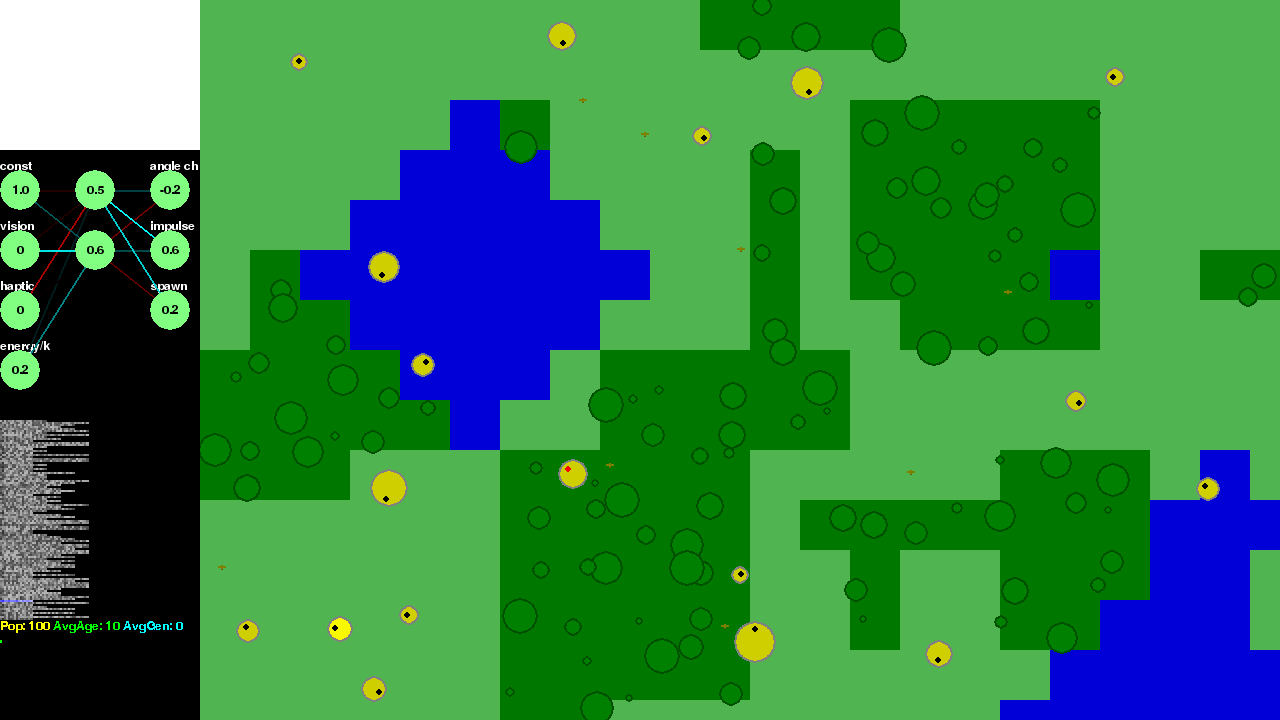
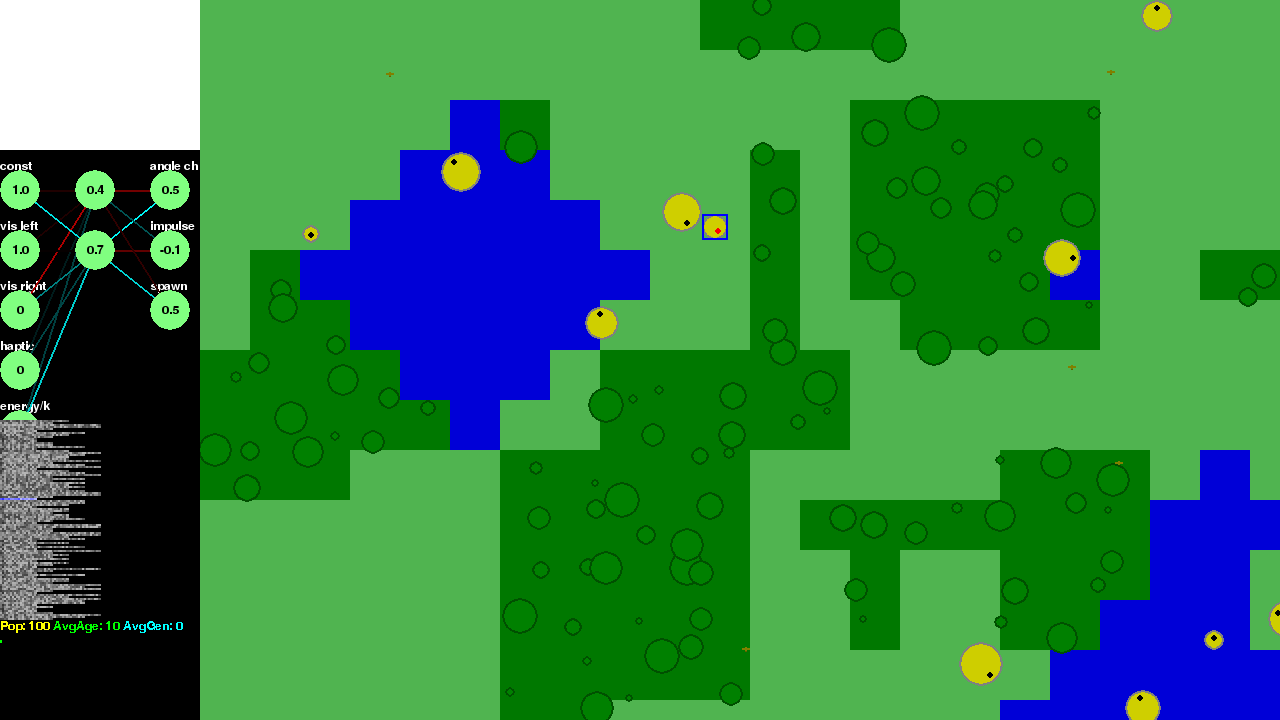
Convert Character to a cdef class, and add left/right vision.

diff --git a/novel-evolve/worldview.py b/novel-evolve/worldview.py
@@ -41,11 +41,15 @@ class WorldView(viewport.Viewport):
 
     def _create_character(self):
         character = characters.Character.from_random(self)
-        while character._x is None \
+        while character.x == -1 \
         or pygame.sprite.spritecollideany(character, self.allcharacters) \
         or pygame.sprite.spritecollideany(character, self.alltrees):
-            character.x = random.randint(0, self.canvas_w - character.r * 2)
-            character.y = random.randint(0, self.canvas_h - character.r * 2)
+            x = random.randint(0, self.canvas_w - character.r * 2)
+            y = random.randint(0, self.canvas_h - character.r * 2)
+            character.x = x
+            character.rect.x = x
+            character.y = y
+            character.rect.y = y
         self.allcharacters.add(character)
         # debugging:
         if self.active_item is None:

diff --git a/novel-evolve/genome.py b/novel-evolve/genome.py
@@ -10,7 +10,6 @@ class Genome(object):
 
         # These are not part of the genome but used to speed up calculations
         self._inputs = inputs
-        assert self._inputs == 4
         self._outputs = outputs
 
 
@@ -81,9 +80,9 @@ class Genome(object):
         if p1.hidden_neurons > p2.hidden_neurons:
             p1, p2 = p2, p1
 
-        assert p1._inputs == 4
-        assert p2._inputs == 4
-        assert new._inputs == 4
+        assert p1._inputs == 5
+        assert p2._inputs == 5
+        assert new._inputs == 5
         for i in range(new.hidden_neurons):
             offset = new._inputs * i
             for j in range(new._inputs):

diff --git a/novel-evolve/brainview.py b/novel-evolve/brainview.py
@@ -48,7 +48,7 @@ class BrainView(viewport.Viewport):
             self.image.blit(self.canvas, self.drag_offset)
             return
 
-        input_labels = ('const', 'vision', 'haptic', 'energy/k')
+        input_labels = ('const', 'vis left', 'vis right', 'haptic', 'energy/k')
         hidden_labels = ()
         output_labels = ('angle ch', 'impulse', 'spawn')
 

diff --git a/novel-evolve/popview.py b/novel-evolve/popview.py
@@ -22,7 +22,7 @@ class GenePopView(viewport.Viewport):
         off = 0
         self.sorted_chars = sorted(
             self.parent.world.allcharacters,
-            key=operator.attrgetter('_created'))
+            key=operator.attrgetter('created'))
         xwidth = self.xwidth
         ywidth = self.ywidth
         for character in self.sorted_chars:
